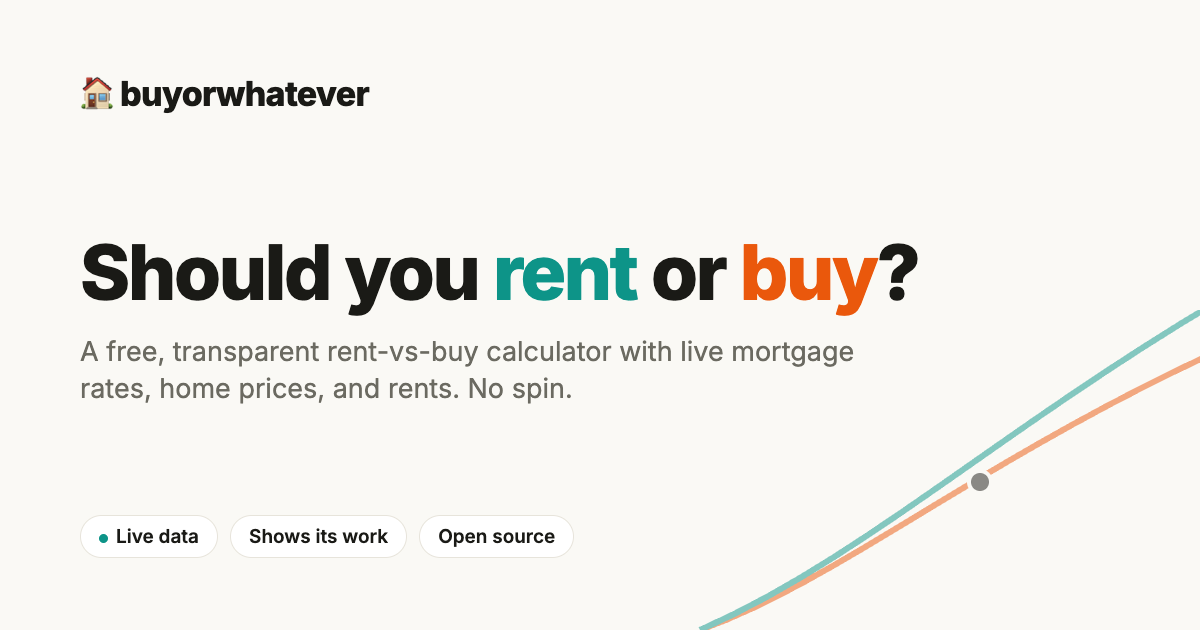
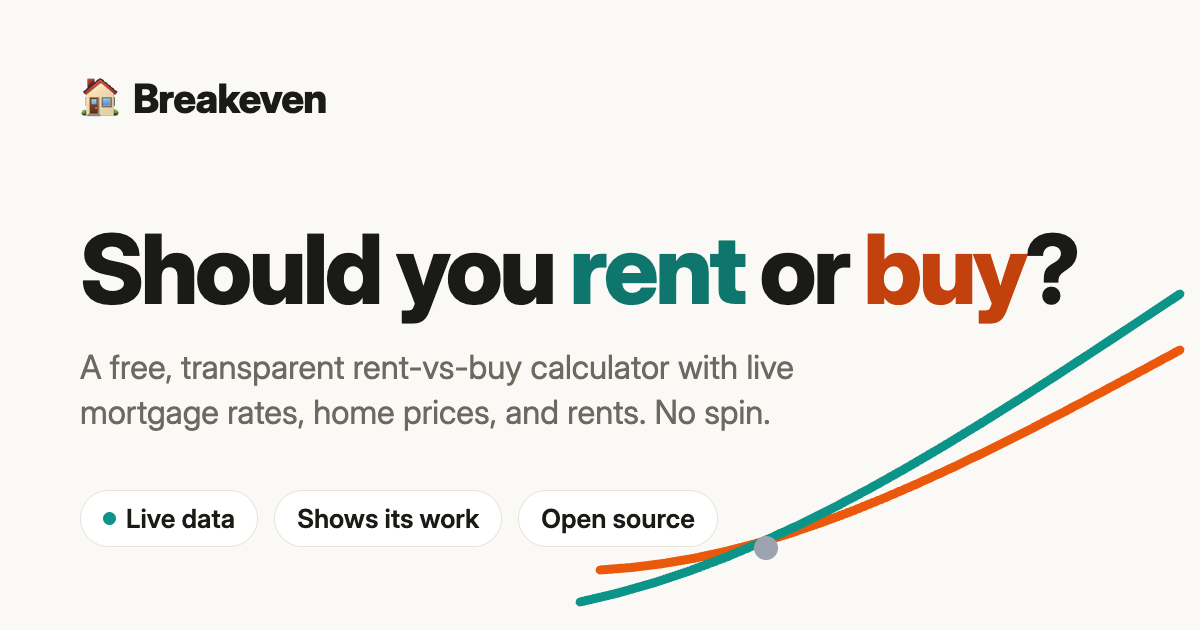
Rename project to Breakeven

diff --git a/index.html b/index.html
@@ -23,25 +23,25 @@
         } catch (e) {}
       })();
     </script>
-    <meta property="og:title" content="buyorwhatever: rent vs. buy, with the math shown" />
+    <meta property="og:title" content="Breakeven: rent vs. buy, with the math shown" />
     <meta
       property="og:description"
       content="A free, open rent-vs-buy calculator with live data and a transparent, auditable model."
     />
     <meta property="og:type" content="website" />
-    <meta property="og:url" content="https://swhitt.github.io/buyorwhatever/" />
-    <meta property="og:image" content="https://swhitt.github.io/buyorwhatever/og.png" />
+    <meta property="og:url" content="https://swhitt.github.io/breakeven/" />
+    <meta property="og:image" content="https://swhitt.github.io/breakeven/og.png" />
     <meta property="og:image:width" content="1200" />
     <meta property="og:image:height" content="630" />
     <meta name="twitter:card" content="summary_large_image" />
-    <meta name="twitter:title" content="buyorwhatever: rent vs. buy, with the math shown" />
+    <meta name="twitter:title" content="Breakeven: rent vs. buy, with the math shown" />
     <meta
       name="twitter:description"
       content="A free, open rent-vs-buy calculator with live data and a transparent, auditable model."
     />
-    <meta name="twitter:image" content="https://swhitt.github.io/buyorwhatever/og.png" />
-    <link rel="canonical" href="https://swhitt.github.io/buyorwhatever/" />
-    <title>buyorwhatever: rent vs. buy, with the math shown</title>
+    <meta name="twitter:image" content="https://swhitt.github.io/breakeven/og.png" />
+    <link rel="canonical" href="https://swhitt.github.io/breakeven/" />
+    <title>Breakeven: rent vs. buy, with the math shown</title>
     <link rel="preconnect" href="https://fonts.googleapis.com" />
     <link rel="preconnect" href="https://fonts.gstatic.com" crossorigin />
     <link

diff --git a/src/App.tsx b/src/App.tsx
@@ -308,7 +308,7 @@ function Header() {
     <header className="sticky top-0 z-20 border-b border-line/70 bg-paper/80 backdrop-blur">
       <div className="mx-auto flex max-w-6xl items-center justify-between px-4 py-3 sm:px-6">
         <div className="flex items-baseline gap-2">
-          <span className="text-lg font-extrabold tracking-tight">buyorwhatever</span>
+          <span className="text-lg font-extrabold tracking-tight">Breakeven</span>
           <span className="hidden text-sm text-muted sm:inline">rent vs. buy, with the math shown</span>
         </div>
         <div className="flex items-center gap-4 text-xs text-muted">
@@ -316,7 +316,7 @@ function Header() {
             data fresh as of <span className="font-semibold text-ink">{market.asOf}</span>
           </span>
           <a
-            href="https://github.com/swhitt/buyorwhatever"
+            href="https://github.com/swhitt/breakeven"
             className="font-semibold text-ink underline-offset-2 hover:underline"
           >
             GitHub
@@ -501,7 +501,7 @@ function Sources() {
         </p>
         <p className="pt-2">
           Free and open source. Data refreshes automatically.{" "}
-          <a href="https://github.com/swhitt/buyorwhatever" className="font-semibold text-ink hover:underline">
+          <a href="https://github.com/swhitt/breakeven" className="font-semibold text-ink hover:underline">
             View the code and the model on GitHub.
           </a>
         </p>

diff --git a/README.md b/README.md
@@ -1,4 +1,4 @@
-# buyorwhatever
+# Breakeven
 
 A free, open rent-vs-buy calculator that shows its work. Live mortgage rates, home prices, and rents are baked in fresh, the model is fully transparent and auditable, and there's no lead-gen.
 
@@ -28,8 +28,8 @@ A scheduled GitHub Action pulls fresh public data on each deploy and weekly ther
 | Home prices & rents (400+ metros) | Zillow ZHVI / ZORI |
 | Inflation | BLS CPI-U |
 | Home-price appreciation | Zillow ZHVI national CAGR |
-| Property tax by state | Tax Foundation (2024 effective rates) |
-| Home insurance by state | Bankrate state averages / Zillow ZHVI (effective rate) |
+| Property tax by state | WalletHub / Census ACS (2024 median effective rates) |
+| Home insurance by state | NAIC HO-3 premiums / Zillow ZHVI (effective rate) |
 | Capital-gains exclusion | IRS Topic 701 |
 
 The fetcher ([`scripts/fetch-data.mjs`](scripts/fetch-data.mjs)) is zero-dependency Node. Each source is fetched independently and falls back to the last committed value if it's unreachable, so a flaky upstream never breaks a deploy.